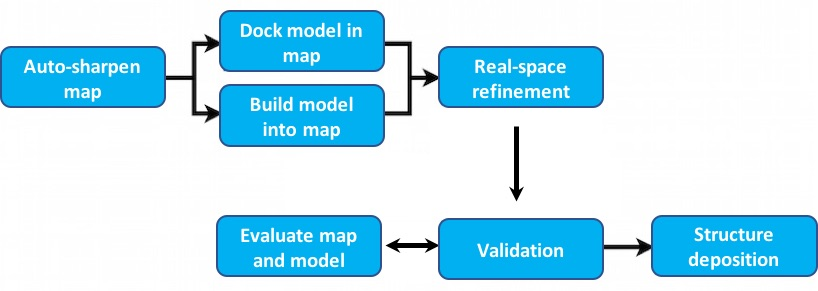
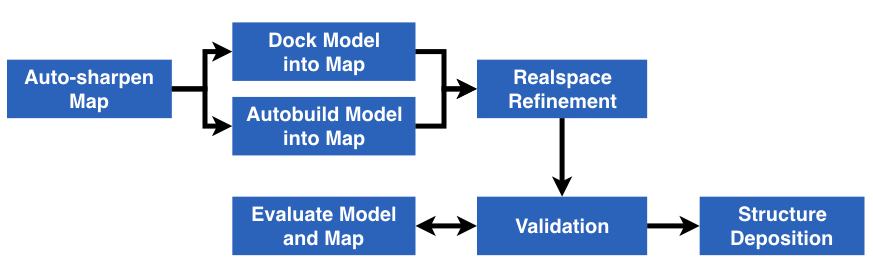
Update overview docs

diff --git a/phenix_documentation.html b/phenix_documentation.html
@@ -16,7 +16,7 @@
 <a href="phenix_index.html">Index</a><br>
 </blockquote>
 
-<blockquote><U><B>Crystallographic Structure Solution with Phenix</B></U></blockquote>
+<h3>Crystallographic Structure Solution with Phenix</B></h3>
 
 <blockquote><img height="280" src="images/xtal-overview-map.001.jpg" usemap="#xrayoverview"></blockquote>
 <map name="xrayoverview">
@@ -40,28 +40,6 @@
         title="Deposit model and data at the world wide Protein Data Bank">
 </map>
 
-
-<blockquote><U><B>Cryo-EM Structure Solution with Phenix</B></U></blockquote>
-
-<blockquote><img height="280" src="images/cryoem-overview-map.001.jpg" usemap="#cryoemoverview"></blockquote>
-<map name="cryoemoverview">
-  <area shape="rect" coords="4,48,154,102" href="reference/auto_sharpen.html" alt="Autosharpen"
-        title="Auto-sharpen map">
-  <area shape="rect" coords="213,82,363,136" href="reference/map_to_model.html" alt="Map to model"
-        title="Build a model into a cryo-EM map">
-  <area shape="rect" coords="213,15,363,69" href="reference/dock_in_map.html" alt="Dock in map"
-        title="Place a model in a cryo-EM map">
-  <area shape="rect" coords="207,212,368,264" href="reference/mtriage.html" alt="Mtriage"
-        title="Check data for resolution and match to model">
-  <area shape="rect" coords="423,48,573,102" href="reference/real_space_refine.html" alt="Real-space structure refinement"
-        title="Optimize an atomic model with respect to the map and prior chemical knowledge">
-  <area shape="rect" coords="421,212,573,266" href="overviews/validation.html" alt="Structure validation"
-        title="Validate a structure with respect to prior chemical knowledge">
-
-  <area shape="rect" coords="627,211,778,265" href="overviews/xray-structure-deposition.html" alt="Structure Deposition"
-        title="Deposit model and data at the world wide Protein Data Bank">
-</map>
-
 <blockquote><U><B>Phenix Documentation for X-ray Crystallography</B></U></blockquote>
 
 <blockquote>
@@ -73,17 +51,30 @@
   <a href="reference/validation.html">Structure validation</a> |
   <a href="reference/ligandfit_gui.html">Ligand fitting</a> |
   <a href="making_geometry_restraints.html">Making geometry restraints</a> |
-  <a href="overviews/xray-structure-deposition.html">Structure deposition</a>
+  <a href="overviews/xray-structure-deposition.html">Structure deposition</a>|
+  <a href="reference/index.html">All</a><br>
 </blockquote>
 
-<blockquote><U><B>Phenix Documentation for Neutron Crystallography</B></U></blockquote>
 
-<blockquote>
-  <a href="reference/refine_gui.html">Structure refinement</a> |
-  <a href="reference/validation.html">Structure validation</a> |
-  <a href="making_geometry_restraints.html">Making geometry restraints</a> |
-  <a href="overviews/xray-structure-deposition.html">Structure deposition</a>
-</blockquote>
+<h3>Cryo-EM Structure Solution with Phenix</h3>
+
+<blockquote><img height="275" src="images/cryoem-overview-map.001.jpg" usemap="#cryoemoverview"></blockquote>
+<map name="cryoemoverview">
+  <area shape="rect" coords=“8,61,157,116" href="reference/auto_sharpen.html" alt="Autosharpen"
+        title="Auto-sharpen map">
+  <area shape="rect" coords=“215,22,382,77" href="reference/dock_in_map.html" alt="Dock in map"
+        title=“Dock a model into a cryo-EM map">
+  <area shape="rect" coords=“215,100,382,154" href="reference/map_to_model.html" alt="Map to model"
+        title=“Autobuild a model into a cryo-EM map">
+  <area shape="rect" coords=“440,61,590,115" href="reference/real_space_refine.html" alt="Real-space structure refinement"
+        title="Optimize an atomic model with respect to the map and prior chemical knowledge">
+  <area shape="rect" coords=“440,197,590,251" href="overviews/validation.html" alt="Structure validation"
+        title="Validate a structure with respect to prior chemical knowledge">
+  <area shape="rect" coords=“215,199,382,251" href="reference/mtriage.html" alt="Mtriage"
+        title="Check map resolution and model to map fit">
+  <area shape="rect" coords=“643,198,790,252" href="overviews/xray-structure-deposition.html" alt="Structure Deposition"
+        title="Deposit model and data at the world wide Protein Data Bank">
+</map>
 
 <blockquote><U><B>Phenix Documentation for Electron Microscopy (EM)</B></U></blockquote>
 
@@ -99,6 +90,17 @@
   <a href="reference/map_box.html">Extract box with map and model</a> |
   <a href="reference/map_to_structure_factors.html">Convert map to structure factors</a> |
   <a href="reference/segment_and_split_map.html">Segment a map</a> |
+  <a href="reference/index.html">All</a><br>
 </blockquote>
 
+
+<h3>Phenix Documentation for Neutron Crystallography</h3>
+
+<blockquote>
+  <a href="reference/refine_gui.html">Structure refinement</a> |
+  <a href="reference/validation.html">Structure validation</a> |
+  <a href="making_geometry_restraints.html">Making geometry restraints</a> |
+  <a href="overviews/xray-structure-deposition.html">Structure deposition</a>|
+  <a href="reference/index.html">All</a><br>
+</blockquote>
 </div>
